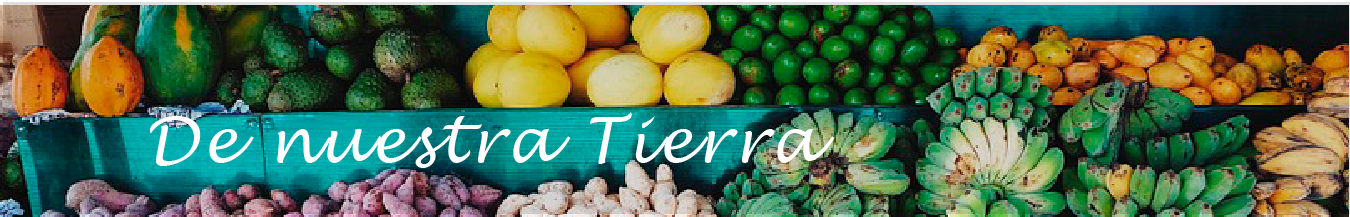
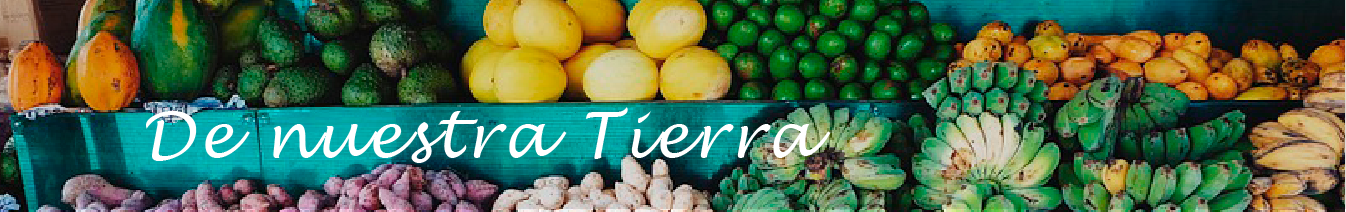
listo arreglado

diff --git a/CaucaAgroSostenibleApp/src/app/cliente/home/home.component.html b/CaucaAgroSostenibleApp/src/app/cliente/home/home.component.html
@@ -1,57 +1,55 @@
-<div class="bodyHome">
-    <div class="fakeimg">
-        <img src="../../../assets/banner-06.png" class="fakeimg">
-    </div>
+<div class="fakeimg">
+    <img src="../../../assets/banner-06.png" class="fakeimg">
+</div>
 
-    <div class="container">
-        <div class="row">
-            <div class="col-sm-2">
-                <app-sidebar></app-sidebar>
-            </div>
+<div class="container">
+    <div class="row">
+        <div class="col-sm-2">
+            <app-sidebar></app-sidebar>
+        </div>
 
-            <div class="col-sm-10">
-                <!-- <div class="fakeimg">
+        <div class="col-sm-10">
+            <!-- <div class="fakeimg">
                 <img src="../../../assets/banner-06.png" class="fakeimg">
             </div> -->
 
-                <div class="galleryHome" *ngFor="let producto of productos.slice(0, productos.length)"
-                    style="margin-top: 20px;">
-                    <div *ngIf="producto.cantidad > 0; else productos">
-                        <div class="imgProd"><img src="../../../../assets/Productos/{{producto.rutaImagen}}"
-                                width="200px" height="150px" /></div>
-                        <div class="desc ">{{ producto.nomProducto}} </div>
-                        <div class="desc text-success">${{ producto.precio}}</div>
-                        <div class="quantity " style="display: inline">
-                            <div style="float:left; width: 25%; margin-left: 6px;" display="inline-block">
-                                <button class="disminuir" (click)="disminuirInput(inputCantidad)">-</button>
-                                <input #inputCantidad type="number" class="cantidad" value="1" min="1" max="20"
-                                    (change)="actualizarPrecio(inputCantidad)">
-                                <button class="aumentar" (click)="aumentarInput(inputCantidad)">+</button>
-                            </div>
-                            <div class="btncar" style="float:right; width:68%;  margin-right: 6px;"
-                                display="inline-block">
-                                <button (click)="agregarItem(producto,inputCantidad)" class="btn btn-success "
-                                    style="margin-left: 30px;">Add Carrito</button>
-                            </div>
+            <div class="galleryHome" *ngFor="let producto of productos.slice(0, productos.length)"
+                style="margin-top: 20px;">
+                <div *ngIf="producto.cantidad > 0; else productos">
+                    <div class="imgProd"><img src="../../../../assets/Productos/{{producto.rutaImagen}}" width="200px"
+                            height="150px" /></div>
+                    <div class="desc ">{{ producto.nomProducto}} </div>
+                    <div class="desc text-success">${{ producto.precio}}</div>
+                    <div class="quantity " style="display: inline">
+                        <div style="float:left; width: 25%; margin-left: 6px;" display="inline-block">
+                            <button class="disminuir" (click)="disminuirInput(inputCantidad)">-</button>
+                            <input #inputCantidad type="number" class="cantidad" value="1" min="1" max="20"
+                                (change)="actualizarPrecio(inputCantidad)">
+                            <button class="aumentar" (click)="aumentarInput(inputCantidad)">+</button>
+                        </div>
+                        <div class="btncar" style="float:right; width:68%;  margin-right: 6px;" display="inline-block">
+                            <button (click)="agregarItem(producto,inputCantidad)" class="btn btn-success "
+                                style="margin-left: 30px;">Add Carrito</button>
                         </div>
                     </div>
-                    <ng-template #productos style="margin-bottom:33px">
-                        <img class="gris" src="../../../../assets/Productos/{{producto.rutaImagen}}" alt="Prod2"
-                            width="600" height="400">
-                        <div class="desc text-muted">{{ producto.nomProducto}} </div>
-                        <div class="desc text-muted">${{ producto.precio}}</div>
-                        <div class="quantity " style="display: inline">
-                            <div style="float:center; width:100%;" display="inline-block">
-                                <button class="btn btn-secondary disabled" style="margin-left: 51px;">Sin
-                                    unidades</button>
-                            </div>
-                        </div>
-                    </ng-template>
                 </div>
+                <ng-template #productos style="margin-bottom:33px">
+                    <img class="gris" src="../../../../assets/Productos/{{producto.rutaImagen}}" alt="Prod2" width="600"
+                        height="400">
+                    <div class="desc text-muted">{{ producto.nomProducto}} </div>
+                    <div class="desc text-muted">${{ producto.precio}}</div>
+                    <div class="quantity " style="display: inline">
+                        <div style="float:center; width:100%;" display="inline-block">
+                            <button class="btn btn-secondary disabled" style="margin-left: 51px;">Sin
+                                unidades</button>
+                        </div>
+                    </div>
+                </ng-template>
             </div>
         </div>
     </div>
 </div>
+
 
 <!--<ng-template #modalAgregarProducto let-modal>
     <div class="modal-header">

diff --git a/CaucaAgroSostenibleApp/src/app/cliente/organizaciones/organizaciones.component.css b/CaucaAgroSostenibleApp/src/app/cliente/organizaciones/organizaciones.component.css
@@ -34,10 +34,10 @@
 }
 
 .galleryOrg {
-  background-color: rgba(33, 36, 32, 0.7);
+  background-color: rgba(55, 65, 51, 0.7);
   font-family: Arial, Helvetica, sans-serif;
   border-radius: 10px;
-  border: rgb(26, 37, 18) 2px solid;
+  border: rgba(55, 65, 51, 0.7) 2px solid;
   grid-auto-flow: dense;
 }
 

diff --git a/CaucaAgroSostenibleApp/src/app/cliente/home/home.component.css b/CaucaAgroSostenibleApp/src/app/cliente/home/home.component.css
@@ -113,6 +113,6 @@ input[type=number]::-webkit-outer-spin-button {
 }
 
 .fakeimg{
-    width: 860px;
-    height: 140px;
+    width: 100%;
+    height: 100%;
 }
